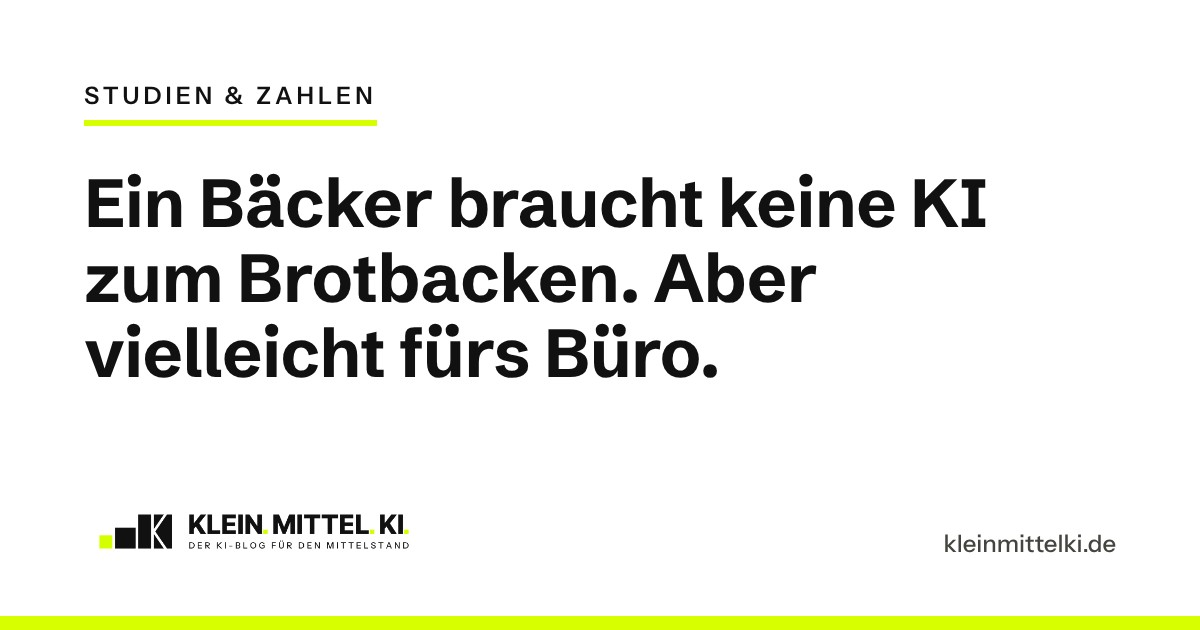
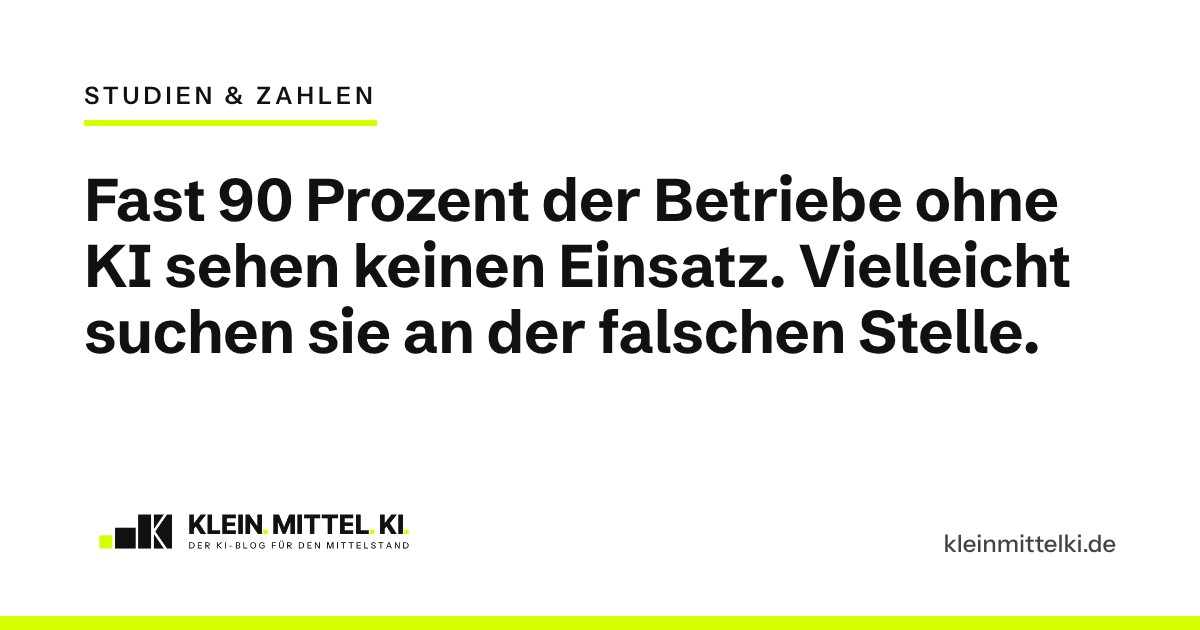
IAB-Beitrag: neuer Titel nach Tills Wahl, Teaser und Vorschaubild angepasst
Claude-Session: https://claude.ai/code/session_01JAPJBPhEHeAC7HgLEYv7Ty

Changed region(s): [[0.0617, 0.2714, 0.8942, 0.6032]]

diff --git a/entwuerfe/iab-betriebe-sehen-keine-ki-anwendung/beitrag.md b/entwuerfe/iab-betriebe-sehen-keine-ki-anwendung/beitrag.md
@@ -1,15 +1,15 @@
 ---
-titel: "Ein Bäcker braucht keine KI zum Brotbacken. Aber vielleicht fürs Büro."
+titel: "Fast 90 Prozent der Betriebe ohne KI sehen keinen Einsatz. Vielleicht suchen sie an der falschen Stelle."
 slug: iab-betriebe-sehen-keine-ki-anwendung
 kategorie: Studien & Zahlen
 tags: [#empfehlung]
-teaser: Fast neun von zehn Betrieben ohne KI sehen laut IAB keinen Einsatzzweck. Der liegt oft nicht im Kerngeschäft, sondern daneben.
+teaser: Laut IAB fehlt vielen Betrieben weder Geld noch Technik, sondern ein Anwendungsfall. Der liegt oft nicht im Kerngeschäft, sondern daneben.
 fuer_kmu: Der Einstieg liegt selten im Handwerk selbst, sondern bei Anfragen, Angeboten und Rückfragen im Büro.
 vorschaubild: vorschaubild.png
 titelbild: titel-iab-betriebe-sehen-keine-ki-anwendung.jpg
 ---
 
-INTERN – vor Veröffentlichung entfernen: Thema und Titel sind Tills Idee (Chat 23.10.2026, Entwurf aus einem anderen Werkzeug). Eine eigene Einschätzung von Till liegt noch nicht vor. Deshalb ist der gesamte Abschnitt „Meine Einordnung“ ein Vorschlag der Redaktion („Mich überrascht weniger …“, „Zwei Grenzen gehören dazu …“, „Dass Bitkom …“). Ebenfalls redaktionell gewählt: die Beispiele im Mittelstand-Abschnitt (Bäckerei mit drei Filialen, Anfrage für 150 belegte Brötchen) und der Gedanke zum Mitnehmen. Bitte ersetzen oder freigeben. Alle Zahlen stammen aus der IAB-Pressemitteilung vom 20.10.2026; das IAB-Forum selbst lädt nur per JavaScript. Bewusst weggelassen, weil nur in einer Zweitverwertung (Smart Up News) lesbar: die Einzelwerte 36/34/33/32/30/7 Prozent und der Vergleich nach Betriebsgröße. Vorschlag für „Eine Zahl, genau gelesen“ steht im Themenboard.
+INTERN – vor Veröffentlichung entfernen: Thema ist Tills Idee (Chat 23.10.2026, Entwurf aus einem anderen Werkzeug). Titel von Till am 24.10.2026 im Chat gewählt. Eine eigene Einschätzung von Till liegt noch nicht vor. Deshalb ist der gesamte Abschnitt „Meine Einordnung“ ein Vorschlag der Redaktion („Mich überrascht weniger …“, „Zwei Grenzen gehören dazu …“, „Dass Bitkom …“). Ebenfalls redaktionell gewählt: die Beispiele im Mittelstand-Abschnitt (Bäckerei mit drei Filialen, Anfrage für 150 belegte Brötchen) und der Gedanke zum Mitnehmen. Bitte ersetzen oder freigeben. Alle Zahlen stammen aus der IAB-Pressemitteilung vom 20.10.2026; das IAB-Forum selbst lädt nur per JavaScript. Bewusst weggelassen, weil nur in einer Zweitverwertung (Smart Up News) lesbar: die Einzelwerte 36/34/33/32/30/7 Prozent und der Vergleich nach Betriebsgröße. Vorschlag für „Eine Zahl, genau gelesen“ steht im Themenboard.
 
 ## Was ist passiert?
 

diff --git a/redaktion/themenboard.md b/redaktion/themenboard.md
@@ -26,14 +26,14 @@ Daneben: `newsletter-vorschlag` (Sonntag per Mail an Till), `verworfen` (mit Gru
 ### iab-betriebe-sehen-keine-ki-anwendung
 - Status: geprueft
 - Idee von Till (Chat 23.10.2026, zwei fertige Entwürfe „Gelesen & eingeordnet“ aus einem anderen Werkzeug; Till: „Ja bitte beide Beiträge als Entwürfe anlegen. Perfekt für KMK machen!“)
-- Titel: „Ein Bäcker braucht keine KI zum Brotbacken. Aber vielleicht fürs Büro.“ (Tills Titel)
+- Titel: „Fast 90 Prozent der Betriebe ohne KI sehen keinen Einsatz. Vielleicht suchen sie an der falschen Stelle.“ (Till, Chat 24.10.2026; vorher „Ein Bäcker braucht keine KI …“ – gefiel ihm nicht)
 - Rubrik/Kategorie: Aktuell / Studien & Zahlen · Format: Nachricht · eine Grafik (Potenzial vs. Nutzung, nur Zahlen aus der IAB-Pressemitteilung)
 - Quelle: https://iab-forum.de/weshalb-die-meisten-betriebe-kuenstliche-intelligenz-noch-nicht-nutzen/ (20.10.2026) + IAB-Pressemitteilung (idw)
 - Warum für KMU: Kleinbetriebe (Handwerk, Bäckerei) suchen KI im Kerngeschäft statt bei Büroaufgaben
 - Braucht von Till: Einschätzung in 2–3 Sätzen oder Freigabe des Vorschlags
 - Vorschlag „Eine Zahl, genau gelesen“: zahl „88 %“ · text „der Betriebe ohne KI sehen dafür keine passende Anwendung.“ · genau „Gemeint sind nur Betriebe, die KI weder nutzen noch planen – im zweiten Halbjahr 2025 zwei Drittel aller Betriebe. Selbstauskunft. Quelle: IAB, Oktober 2026.“ · link: Beitrag nach Veröffentlichung. Ändern nur nach Freigabe (Code-Injection, nicht per API).
 - Reihenfolge: vor nicht-jedes-problem-braucht-ki veröffentlichen
-- Verlauf: 2026-10-23 Chat: Till „Ja“ → freigegeben · Autor/Grafik/Prüfung im Chat-Lauf, Einzelwerte aus Zweitverwertung bewusst weggelassen → geprueft, Ghost-Lauf angestoßen
+- Verlauf: 2026-10-23 Chat: Till „Ja“ → freigegeben · Autor/Grafik/Prüfung im Chat-Lauf, Einzelwerte aus Zweitverwertung bewusst weggelassen → geprueft (Sofortstart Ghost-Lauf blockiert, nächster regulärer Lauf So 7:47) · 2026-10-24 Chat: Till will neuen Titel, wählt „Fast 90 Prozent … an der falschen Stelle.“ → Titel, Teaser (wiederholte sonst die Überschrift) und Vorschaubild neu
 
 ### nicht-jedes-problem-braucht-ki
 - Status: geprueft
